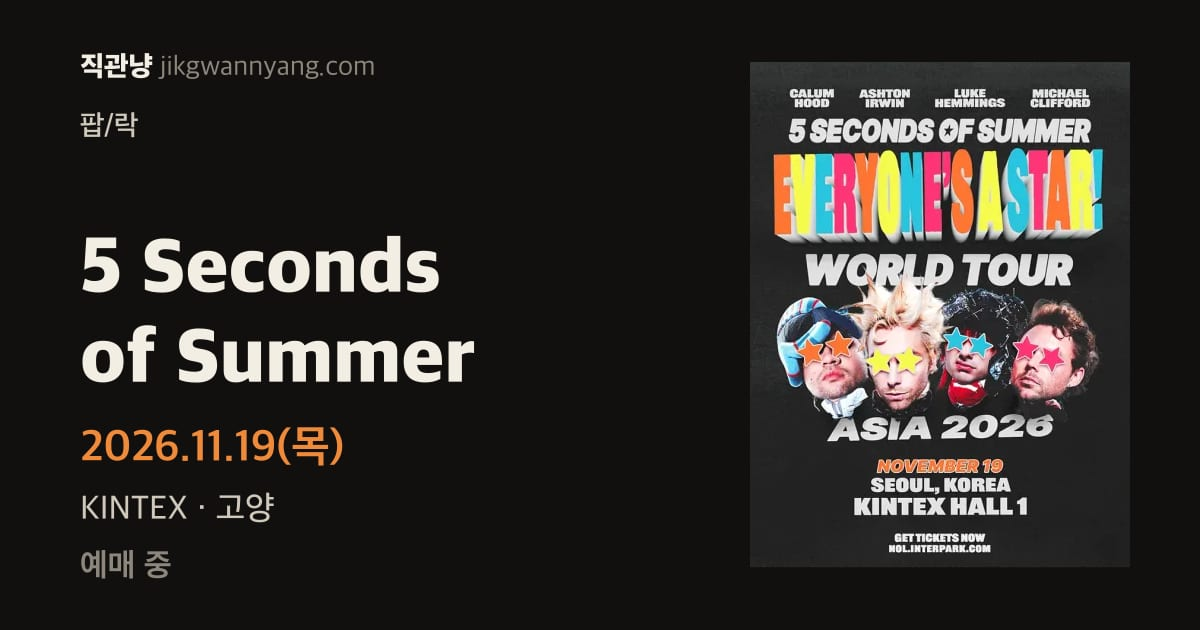
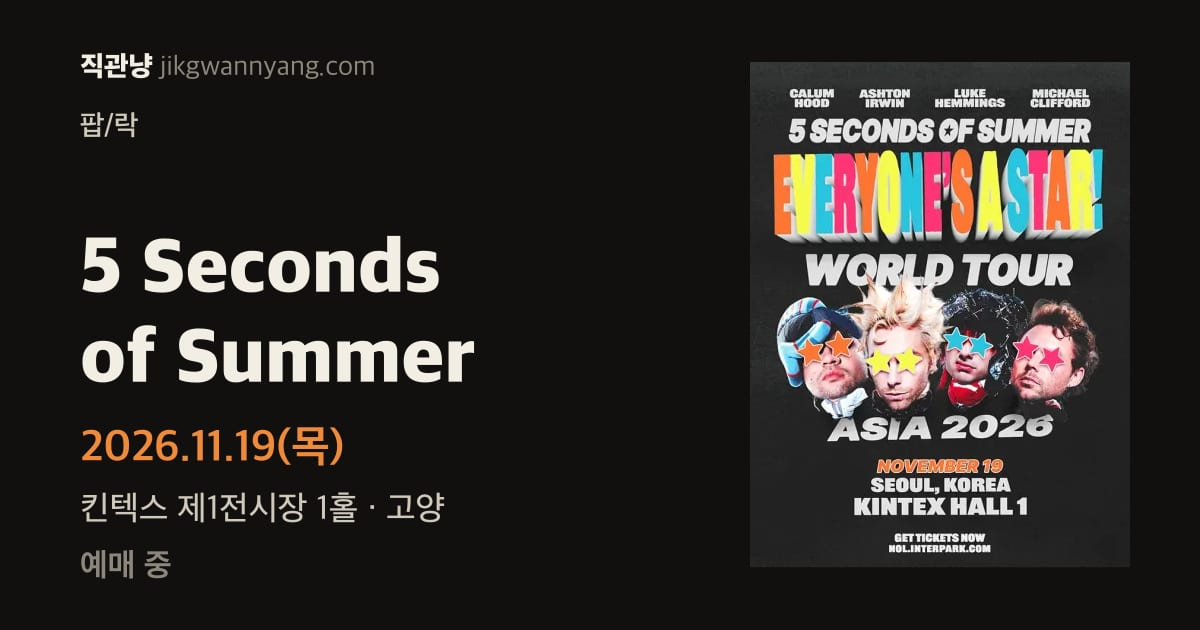
'KINTEX'로만 적힌 공연 4건을 실제 전시장·홀로 나눔
몇 전시장인지 없이 'KINTEX' 하나로 묶여 있던 지난 공연 4건을 원문으로 확인해
제1·제2전시장 페이지에 각각 연결했다.

- 백넘버: 킨텍스 제2전시장 9홀(예스24 상품 페이지의 공연장소)
- LANY: 킨텍스 제2전시장 9홀(라이브네이션 공식 "KINTEX Hall 9", 9홀은 킨텍스 공식
  시설개요상 제2전시장)
- 제이슨 므라즈: 킨텍스 제1전시장(공연 당일 연합뉴스 기사). 홀 번호는 팬 기록에만
  있어 넣지 않았다.
- 5SOS: 킨텍스 제1전시장 1홀(NOL 상품 페이지, 포스터 "KINTEX HALL 1")
- 새 표기 두 개(제1전시장 1홀, 제2전시장 9홀) 별칭 추가, 확인한 상품 페이지를
  출처에 추가, 네 공연 공유 카드 다시 만듦.

Changed region(s): [[0.0617, 0.7841, 0.37, 0.8444]]

diff --git a/src/lib/venues.ts b/src/lib/venues.ts
@@ -120,6 +120,7 @@ const VENUE_ALIASES: Record<string, string> = {
   '무신사 개러지 (구. 왓챠홀)': '무신사 개러지',
   '킨텍스 제2전시장 10홀': '킨텍스 제2전시장',
   // 제1전시장 공연은 홀 크기·주차가 다른 제2전시장과 섞이지 않게 따로 묶는다(2026-11-21).
+  '킨텍스 제1전시장 1홀': '킨텍스 제1전시장',
   '킨텍스 제1전시장 3,4홀': '킨텍스 제1전시장',
   '킨텍스 제1전시장 4,5홀': '킨텍스 제1전시장',
   '킨텍스 제1전시장 5홀 (KINTEX)': '킨텍스 제1전시장',
@@ -130,6 +131,7 @@ const VENUE_ALIASES: Record<string, string> = {
   '올림픽공원 內 올림픽홀': '올림픽공원',
   '티켓링크 라이브 아레나 (올림픽공원)': '올림픽공원',
   '티켓링크 라이브 아레나 (구 올림픽공원 핸드볼경기장)': '올림픽공원',
+  '킨텍스 제2전시장 9홀': '킨텍스 제2전시장',
   '킨텍스 제2전시장 9A홀': '킨텍스 제2전시장',
   '킨텍스 제2전시장 7홀, 8홀': '킨텍스 제2전시장',
   '인스파이어 엔터테인먼트 리조트': '인스파이어 아레나',
